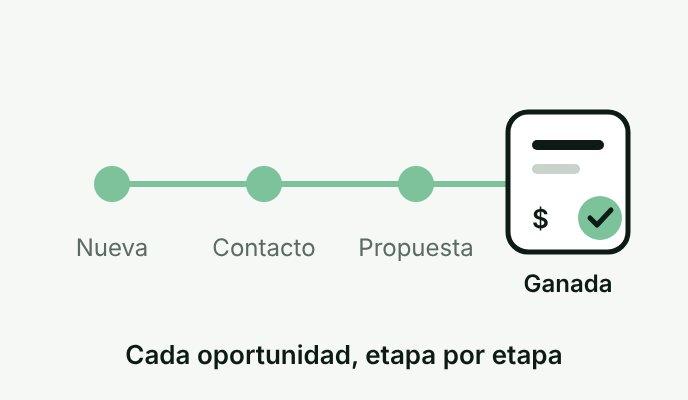
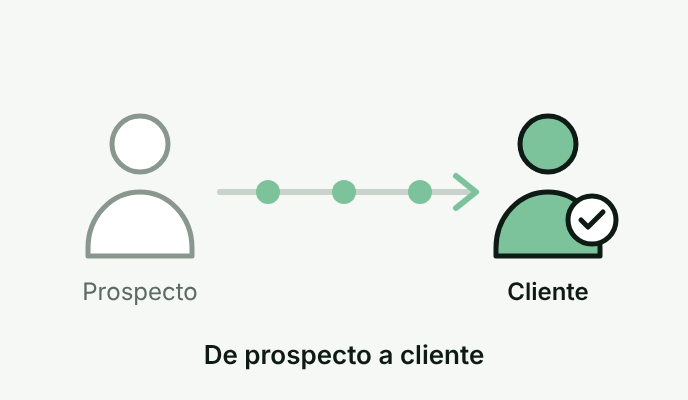
soluciones: pictogramas de comercial (prospecto → cliente) y compras (pedida → aprobada → pagada)
Claude-Session: https://claude.ai/code/session_01R8AM8KCA3unNjmvkVWvfys

diff --git a/docs/demo/vinetas-sistemas.html b/docs/demo/vinetas-sistemas.html
@@ -8,44 +8,54 @@ text{font-family:Inter,"Helvetica Neue",Arial,sans-serif}
 
 <!-- 1 · COMERCIAL: una oportunidad recorre las etapas hasta "Ganada" -->
 <div class="v" id="v1"><svg viewBox="0 0 344 200" fill="none">
-<path d="M56 92 H284" stroke="#7CC39C" stroke-width="3" stroke-linecap="round"/>
-<circle cx="56" cy="92" r="9" fill="#7CC39C"/><circle cx="132" cy="92" r="9" fill="#7CC39C"/><circle cx="208" cy="92" r="9" fill="#7CC39C"/>
-<g transform="translate(254 56)">
-<rect x="0" y="0" width="60" height="70" rx="10" fill="#fff" stroke="#0E1A14" stroke-width="2.5"/>
-<rect x="12" y="14" width="36" height="5" rx="2.5" fill="#0E1A14"/>
-<rect x="12" y="26" width="24" height="5" rx="2.5" fill="#C9D3CC"/>
-<text x="12" y="58" font-size="13" font-weight="600" fill="#0E1A14">$</text>
-<circle cx="46" cy="53" r="11" fill="#7CC39C"/><path d="M41 53l3.5 3.5L51.5 49" stroke="#0E1A14" stroke-width="2.5" stroke-linecap="round" stroke-linejoin="round"/>
+<!-- prospecto (outline) -->
+<g transform="translate(40 52)" stroke="#8A978F" stroke-width="2.5" stroke-linecap="round" stroke-linejoin="round">
+<circle cx="30" cy="20" r="14" fill="#fff"/>
+<path d="M4 72c0-16 12-28 26-28s26 12 26 28v4H4z" fill="#fff"/>
 </g>
-<text x="56" y="128" text-anchor="middle" font-size="12" fill="#5C6B62">Nueva</text>
-<text x="132" y="128" text-anchor="middle" font-size="12" fill="#5C6B62">Contacto</text>
-<text x="208" y="128" text-anchor="middle" font-size="12" fill="#5C6B62">Propuesta</text>
-<text x="284" y="146" text-anchor="middle" font-size="12" font-weight="600" fill="#0E1A14">Ganada</text>
-<text x="172" y="182" text-anchor="middle" font-size="13" font-weight="600" fill="#0E1A14">Cada oportunidad, etapa por etapa</text>
+<!-- camino con etapas -->
+<path d="M110 96 H236" stroke="#C9D3CC" stroke-width="3" stroke-linecap="round"/>
+<path d="M110 96 H236" stroke="#7CC39C" stroke-width="3" stroke-linecap="round" stroke-dasharray="0 1" opacity="0"/>
+<circle cx="134" cy="96" r="6" fill="#7CC39C"/><circle cx="172" cy="96" r="6" fill="#7CC39C"/><circle cx="210" cy="96" r="6" fill="#7CC39C"/>
+<path d="M228 88l10 8-10 8" stroke="#7CC39C" stroke-width="3" stroke-linecap="round" stroke-linejoin="round"/>
+<!-- cliente (filled) -->
+<g transform="translate(244 52)">
+<circle cx="30" cy="20" r="14" fill="#7CC39C" stroke="#0E1A14" stroke-width="2.5"/>
+<path d="M4 72c0-16 12-28 26-28s26 12 26 28v4H4z" fill="#7CC39C" stroke="#0E1A14" stroke-width="2.5" stroke-linejoin="round"/>
+<circle cx="52" cy="58" r="12" fill="#fff" stroke="#0E1A14" stroke-width="2.5"/><path d="M46.5 58l3.5 3.5 7.5-7.5" stroke="#0E1A14" stroke-width="2.5" stroke-linecap="round" stroke-linejoin="round"/>
+</g>
+<text x="70" y="150" text-anchor="middle" font-size="12" fill="#5C6B62">Prospecto</text>
+<text x="274" y="150" text-anchor="middle" font-size="12" font-weight="600" fill="#0E1A14">Cliente</text>
+<text x="172" y="182" text-anchor="middle" font-size="13" font-weight="600" fill="#0E1A14">De prospecto a cliente</text>
 </svg></div>
 
 <!-- 2 · COMPRAS Y PAGOS: la orden y la factura encajan -->
 <div class="v" id="v2"><svg viewBox="0 0 344 200" fill="none">
-<!-- order document -->
-<g transform="translate(70 40)">
-<path d="M0 10a10 10 0 0 1 10-10h58l22 22v88a10 10 0 0 1-10 10H10A10 10 0 0 1 0 110z" fill="#fff" stroke="#0E1A14" stroke-width="2.5" stroke-linejoin="round"/>
-<path d="M68 0v22h22" stroke="#0E1A14" stroke-width="2.5" stroke-linejoin="round"/>
-<rect x="14" y="40" width="44" height="5" rx="2.5" fill="#C9D3CC"/><rect x="14" y="52" width="60" height="5" rx="2.5" fill="#C9D3CC"/>
-<text x="14" y="92" font-size="15" font-weight="600" fill="#0E1A14">$ 412.300</text>
-<text x="14" y="30" font-size="11" fill="#5C6B62">Orden</text>
+<path d="M30 118 H314" stroke="#C9D3CC" stroke-width="3" stroke-linecap="round"/>
+<circle cx="118" cy="118" r="4" fill="#C9D3CC"/><circle cx="226" cy="118" r="4" fill="#C9D3CC"/>
+<!-- orden (documento) -->
+<g transform="translate(40 54)">
+<path d="M0 8a8 8 0 0 1 8-8h30l16 16v40a8 8 0 0 1-8 8H8a8 8 0 0 1-8-8z" fill="#fff" stroke="#0E1A14" stroke-width="2.5" stroke-linejoin="round"/>
+<path d="M38 0v16h16" stroke="#0E1A14" stroke-width="2.5" stroke-linejoin="round"/>
+<rect x="11" y="28" width="22" height="4" rx="2" fill="#0E1A14"/><rect x="11" y="38" width="30" height="4" rx="2" fill="#C9D3CC"/><rect x="11" y="48" width="18" height="4" rx="2" fill="#C9D3CC"/>
 </g>
-<!-- invoice document -->
-<g transform="translate(184 40)">
-<path d="M0 10a10 10 0 0 1 10-10h58l22 22v88a10 10 0 0 1-10 10H10A10 10 0 0 1 0 110z" fill="#fff" stroke="#0E1A14" stroke-width="2.5" stroke-linejoin="round"/>
-<path d="M68 0v22h22" stroke="#0E1A14" stroke-width="2.5" stroke-linejoin="round"/>
-<rect x="14" y="40" width="44" height="5" rx="2.5" fill="#C9D3CC"/><rect x="14" y="52" width="60" height="5" rx="2.5" fill="#C9D3CC"/>
-<text x="14" y="92" font-size="15" font-weight="600" fill="#0E1A14">$ 412.300</text>
-<text x="14" y="30" font-size="11" fill="#5C6B62">Factura</text>
+<!-- aprobación (sello) -->
+<g transform="translate(142 50)">
+<circle cx="30" cy="30" r="30" fill="#F6CEA8" stroke="#0E1A14" stroke-width="2.5"/>
+<circle cx="30" cy="30" r="21" fill="none" stroke="#0E1A14" stroke-width="2" stroke-dasharray="3 4"/>
+<path d="M20 30l7 7 13-14" stroke="#0E1A14" stroke-width="3.5" stroke-linecap="round" stroke-linejoin="round"/>
 </g>
-<!-- the match -->
-<circle cx="172" cy="104" r="20" fill="#7CC39C" stroke="#F6F8F5" stroke-width="5"/>
-<path d="M163 104l6 6 12-12" stroke="#0E1A14" stroke-width="3" stroke-linecap="round" stroke-linejoin="round"/>
-<text x="172" y="182" text-anchor="middle" font-size="13" font-weight="600" fill="#0E1A14">Coinciden: se paga</text>
+<!-- pago (billete) -->
+<g transform="translate(244 62)">
+<rect x="0" y="0" width="64" height="40" rx="6" fill="#7CC39C" stroke="#0E1A14" stroke-width="2.5"/>
+<circle cx="32" cy="20" r="10" fill="#fff" stroke="#0E1A14" stroke-width="2.5"/>
+<text x="32" y="25" text-anchor="middle" font-size="13" font-weight="700" fill="#0E1A14">$</text>
+<circle cx="9" cy="20" r="2" fill="#0E1A14"/><circle cx="55" cy="20" r="2" fill="#0E1A14"/>
+</g>
+<text x="68" y="150" text-anchor="middle" font-size="12" fill="#5C6B62">Pedida</text>
+<text x="172" y="150" text-anchor="middle" font-size="12" fill="#5C6B62">Aprobada</text>
+<text x="276" y="150" text-anchor="middle" font-size="12" fill="#5C6B62">Pagada</text>
+<text x="172" y="182" text-anchor="middle" font-size="13" font-weight="600" fill="#0E1A14">Nada se paga sin aprobación</text>
 </svg></div>
 
 <!-- 3 · PEDIDOS Y PRODUCCIÓN: del pedido a la entrega -->

diff --git a/soluciones.html b/soluciones.html
@@ -279,7 +279,7 @@ html{scroll-behavior:smooth;scroll-padding-top:72px}
 </div>
 <div class="g3" style="display: grid; grid-template-columns: repeat(3, minmax(0, 1fr)); gap: 24px">
 <article class="card sol" data-d="3" data-reveal="" style="border-radius: 9px; background: #F6F8F5; border: 1px solid rgba(14,26,20,0.08); overflow: hidden; display: flex; flex-direction: column">
-<div class="thumb" style="height: 180px; margin: 16px 16px 0; border-radius: 6px; background: #FFFFFF; border: 1px solid rgba(14,26,20,0.08); overflow: hidden"><img src="assets/screens/timbo-pipeline.png" alt="Una oportunidad recorriendo las etapas nueva, contacto y propuesta hasta ganada" loading="lazy" width="688" height="400" style="display:block;width:100%;height:100%;object-fit:cover;object-position:top left"></div>
+<div class="thumb" style="height: 180px; margin: 16px 16px 0; border-radius: 6px; background: #FFFFFF; border: 1px solid rgba(14,26,20,0.08); overflow: hidden"><img src="assets/screens/timbo-pipeline.png" alt="Un prospecto que atraviesa las etapas comerciales y se convierte en cliente" loading="lazy" width="688" height="400" style="display:block;width:100%;height:100%;object-fit:cover;object-position:top left"></div>
 <div style="padding: 24px; display: flex; flex-direction: column; gap: 10px">
 <span style="font-family: 'JetBrains Mono', monospace; font-size: 12px; color: #4FA377; letter-spacing: 0.015em">COMERCIAL</span>
 <div class="sol-head" style="display: flex; align-items: center; justify-content: space-between; gap: 12px"><h3 style="margin: 0; font-weight: 500; font-size: 24px; line-height: 1.04">Gestión de oportunidades comerciales</h3><svg aria-hidden="true" class="sol-chev" fill="none" height="18" stroke="currentColor" stroke-linecap="round" stroke-linejoin="round" stroke-width="2" style="display: none; flex: none" viewbox="0 0 24 24" width="18"><path d="M6 9l6 6 6-6"></path></svg></div>
@@ -287,7 +287,7 @@ html{scroll-behavior:smooth;scroll-padding-top:72px}
 </div>
 </article>
 <article class="card sol" data-d="4" data-reveal="" style="border-radius: 9px; background: #F6F8F5; border: 1px solid rgba(14,26,20,0.08); overflow: hidden; display: flex; flex-direction: column">
-<div class="thumb" style="height: 180px; margin: 16px 16px 0; border-radius: 6px; background: #FFFFFF; border: 1px solid rgba(14,26,20,0.08); overflow: hidden"><img src="assets/screens/compras-pagos.png" alt="Una orden de compra y una factura por el mismo importe que coinciden, listas para pagar" loading="lazy" width="688" height="400" style="display:block;width:100%;height:100%;object-fit:cover;object-position:top left"></div>
+<div class="thumb" style="height: 180px; margin: 16px 16px 0; border-radius: 6px; background: #FFFFFF; border: 1px solid rgba(14,26,20,0.08); overflow: hidden"><img src="assets/screens/compras-pagos.png" alt="Una orden de compra pedida, aprobada con sello y pagada" loading="lazy" width="688" height="400" style="display:block;width:100%;height:100%;object-fit:cover;object-position:top left"></div>
 <div style="padding: 24px; display: flex; flex-direction: column; gap: 10px">
 <span style="font-family: 'JetBrains Mono', monospace; font-size: 12px; color: #4FA377; letter-spacing: 0.015em">ADMINISTRACIÓN</span>
 <div class="sol-head" style="display: flex; align-items: center; justify-content: space-between; gap: 12px"><h3 style="margin: 0; font-weight: 500; font-size: 24px; line-height: 1.04">Órdenes de compra y pago</h3><svg aria-hidden="true" class="sol-chev" fill="none" height="18" stroke="currentColor" stroke-linecap="round" stroke-linejoin="round" stroke-width="2" style="display: none; flex: none" viewbox="0 0 24 24" width="18"><path d="M6 9l6 6 6-6"></path></svg></div>
